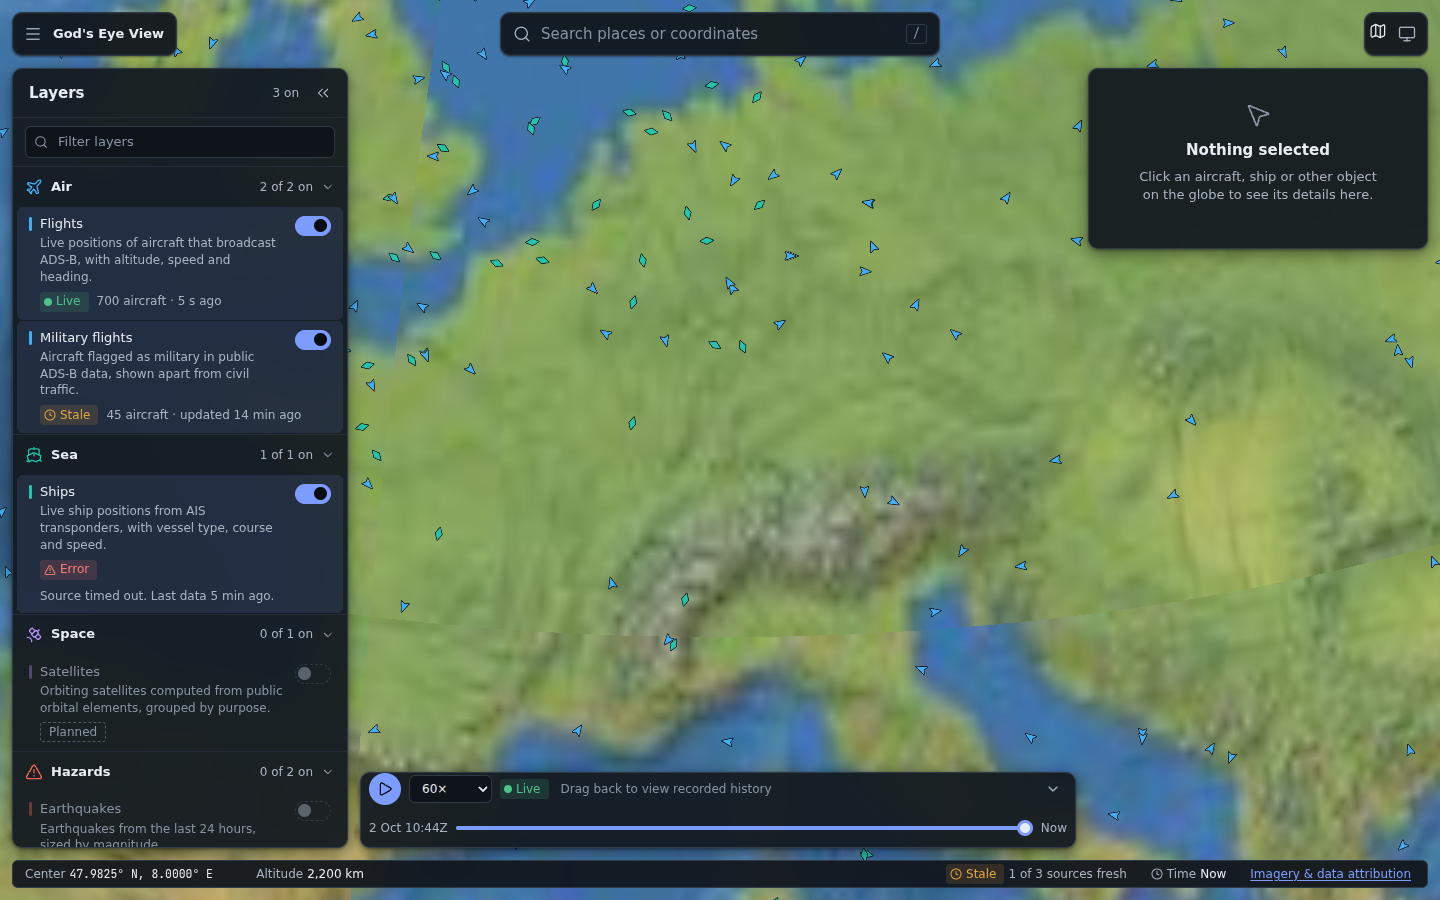
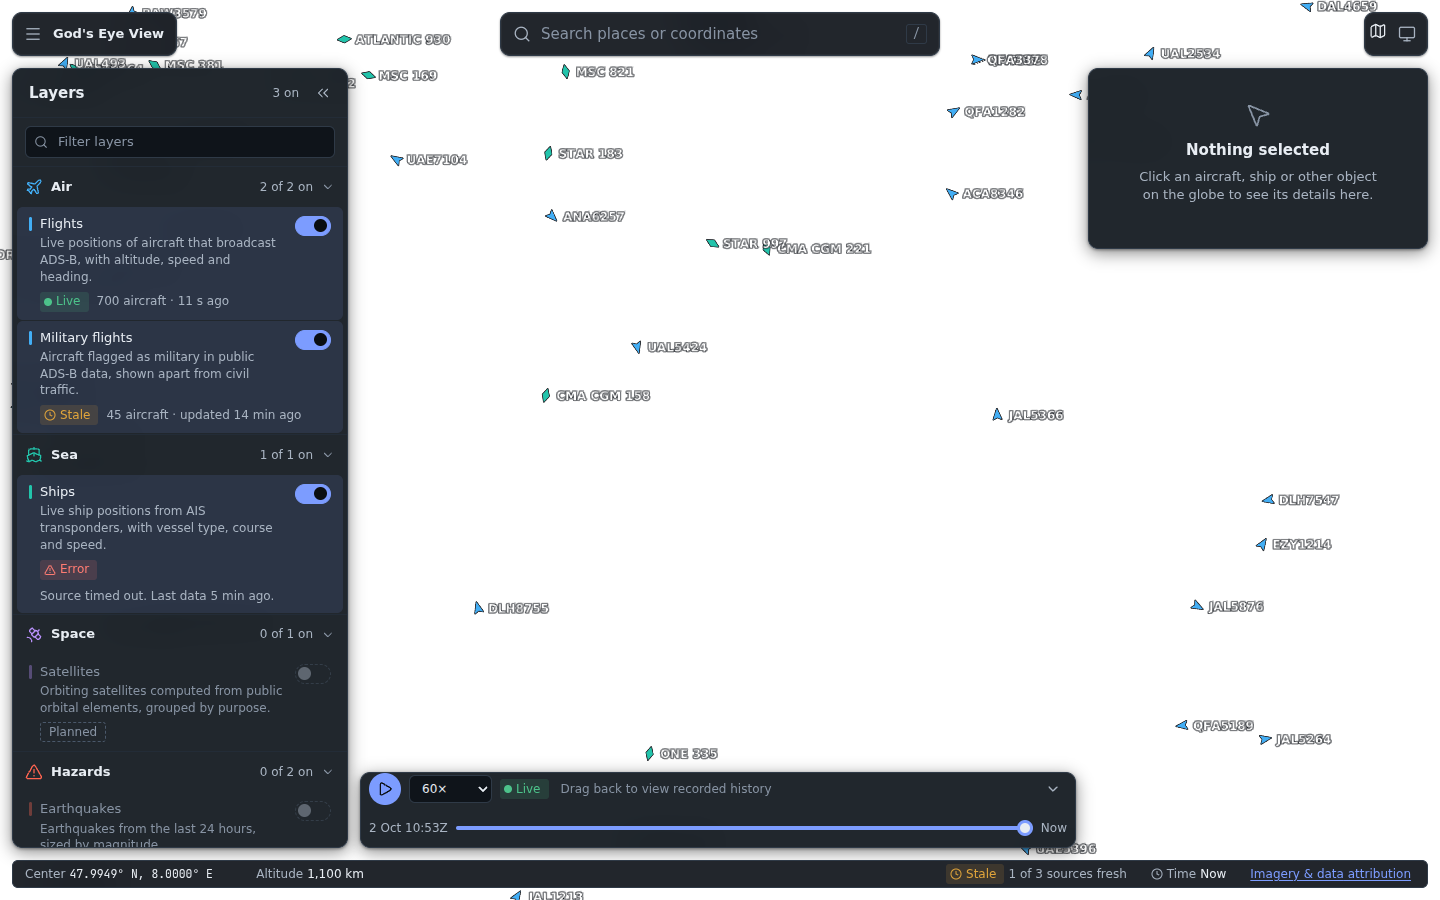
v2: web data layers, detail panel and time slider (work in progress)
Claude-Session: https://claude.ai/code/session_01Pqcu3rSvhkjfRPuF8urbmd

diff --git a/v2/web/src/api/fixtures.ts b/v2/web/src/api/fixtures.ts
@@ -124,12 +124,12 @@ function observe(layer: string, i: number, t: number, full: boolean): Observatio
     lat: pos.lat,
     heading: Math.round(pos.heading * 10) / 10,
     speed: Math.round(p.speed * 10) / 10,
-    props: { label: labelOf(layer, i) },
+    props: layer === 'vessels' ? { name: labelOf(layer, i) } : { callsign: labelOf(layer, i), military: layer === 'military-flights', onGround: false },
   };
   if (p.alt !== null) obs.alt = Math.round(p.alt);
   if (full) {
-    if (layer === 'vessels') obs.props = { ...obs.props, shipType: pickOf(SHIP_TYPES, i, 40), mmsi: obs.objectId };
-    else obs.props = { ...obs.props, type: pickOf(layer === 'flights' ? AIRCRAFT : MIL_TYPES, i, 41)[0], squawk: String(1000 + Math.floor(rnd(i, 42) * 6000)) };
+    if (layer === 'vessels') obs.props = { ...obs.props, category: pickOf(SHIP_TYPES, i, 40), navStatus: 'Under way using engine', destination: 'ROTTERDAM' };
+    else obs.props = { ...obs.props, typeCode: pickOf(layer === 'flights' ? AIRCRAFT : MIL_TYPES, i, 41)[0], squawk: String(1000 + Math.floor(rnd(i, 42) * 6000)) };
   }
   return obs;
 }
@@ -167,7 +167,7 @@ export function fixtureConfig(): ClientConfig {
 
 function detailFor(layer: string, i: number, t: number): ObjectDetail {
   const obs = observe(layer, i, t, true);
-  const label = String(obs.props.label);
+  const label = String(obs.props.callsign ?? obs.props.name);
   const kind = KINDS[layer]!;
   const rows = (r: DetailRow[]) => r;
   const lat = obs.lat;
@@ -193,8 +193,8 @@ function detailFor(layer: string, i: number, t: number): ObjectDetail {
   let title = label;
   let subtitle: string | null;
   if (layer === 'vessels') {
-    subtitle = `${String(obs.props.shipType)} · MMSI ${obs.objectId}`;
-    sections.push({ title: 'Vessel', rows: rows([{ label: 'Name', value: label }, { label: 'MMSI', value: obs.objectId, mono: true }, { label: 'Type', value: String(obs.props.shipType) }]) });
+    subtitle = `${String(obs.props.category)} · MMSI ${obs.objectId}`;
+    sections.push({ title: 'Vessel', rows: rows([{ label: 'Name', value: label }, { label: 'MMSI', value: obs.objectId, mono: true }, { label: 'Type', value: String(obs.props.category) }]) });
   } else {
     const [code, name] = pickOf(layer === 'flights' ? AIRCRAFT : MIL_TYPES, i, 41);
     const reg = layer === 'flights' ? `N${10000 + Math.floor(rnd(i, 43) * 89999)}` : null;
@@ -217,7 +217,7 @@ function detailFor(layer: string, i: number, t: number): ObjectDetail {
       { label: 'Position', value: layer === 'vessels' ? 'Reported by vessel' : 'Reported by aircraft', hint: 'not estimated' },
     ]),
   });
-  return { layer, objectId: obs.objectId, observation: obs, title, subtitle, sections, sources: [kind.source] };
+  return { layer, objectId: obs.objectId, observation: obs, title, subtitle, sections, sources: [kind.source], live: true };
 }
 
 const delay = (ms: number) => new Promise<void>((r) => setTimeout(r, ms));

diff --git a/v2/web/src/components/DetailPanel.svelte b/v2/web/src/components/DetailPanel.svelte
@@ -25,7 +25,9 @@
   const historical = $derived(timeState.at !== null);
   const seenAgo = $derived(detail ? Math.max(0, (historical ? timeState.at! : clock.now) - detail.observation.t) : 0);
   const freshness = $derived(feedStore.byLayer[selection.ref?.layer ?? '']?.freshnessMs ?? 60_000);
-  const stale = $derived(!historical && seenAgo > freshness);
+  // The server says whether the object is in the live picture; without that flag fall back to its age.
+  const notInFeed = $derived(selection.phase === 'gone' || (!historical && detail?.live === false));
+  const stale = $derived(!historical && detail?.live === undefined && seenAgo > freshness);
 
   const text = (v: PropValue): string => (v === null || v === '' ? '—' : typeof v === 'boolean' ? (v ? 'Yes' : 'No') : typeof v === 'number' ? v.toLocaleString('en-US') : v);
 
@@ -95,12 +97,12 @@
       </button>
     </div>
     <div class="fresh">
-      {#if selection.phase === 'gone'}
-        <StatusChip tone="stale"><Clock size={12} strokeWidth={2} aria-hidden="true" />Not in feed</StatusChip>
+      {#if notInFeed}
+        <StatusChip tone="stale"><Clock size={12} strokeWidth={2} aria-hidden="true" />{historical ? 'Not recorded' : 'Not in feed'}</StatusChip>
         <span class="meta num">Last seen {formatAge(clock.now - detail.observation.t)}</span>
       {:else if historical}
         <StatusChip tone="history"><History size={12} strokeWidth={2} aria-hidden="true" />Recorded</StatusChip>
-        <span class="meta num">Last seen {formatDuration(seenAgo)} before</span>
+        <span class="meta num">Last seen {formatDuration(seenAgo)} before this time</span>
       {:else if stale}
         <StatusChip tone="stale"><Clock size={12} strokeWidth={2} aria-hidden="true" />Stale</StatusChip>
         <span class="meta num">Last seen {formatAge(seenAgo)}</span>
@@ -109,8 +111,10 @@
         <span class="meta num">Last seen {formatAge(seenAgo)}</span>
       {/if}
     </div>
-    {#if selection.phase === 'gone'}
-      <p class="notice" role="status">This object is no longer in the feed. It may have landed, left coverage or stopped transmitting. The last known details are shown.</p>
+    {#if notInFeed}
+      <p class="notice" role="status">
+        {#if historical}This object wasn't recorded at the viewed time. The last details received are shown.{:else}This object is no longer in the feed. It may have landed, left coverage or stopped transmitting. The last known details are shown.{/if}
+      </p>
     {/if}
     {#if selection.track === 'empty'}<p class="notice" role="status">No recorded track for this object in the last 6 hours.</p>{/if}
     {#if selection.track === 'error'}<p class="notice err" role="alert">Couldn't load the track. Try again.</p>{/if}

diff --git a/v2/web/src/globe/layers/manager.ts b/v2/web/src/globe/layers/manager.ts
@@ -3,7 +3,7 @@ import type { ApiConfig, ApiFailure } from '../../api/index.ts';
 import { SnapshotHub } from '../../data/hub.ts';
 import type { FailedMessage, FromWorker, UpdateMessage } from '../../data/protocol.ts';
 import { bboxArea, bboxContains, bboxFromRectangle } from '../../lib/bbox.ts';
-import { cadenceMs, retryDelayMs } from '../../lib/cadence.ts';
+import { nextPollMs } from '../../lib/cadence.ts';
 import { debounce } from '../../lib/debounce.ts';
 import { CATEGORY_MAP_COLOR } from '../../lib/markerStyle.ts';
 import { thin } from '../../lib/trackStyle.ts';
@@ -14,7 +14,7 @@ import { TrackLine } from './track.ts';
 type Cesium = typeof import('cesium');
 
 /** Labels appear below this camera height. */
-export const LABEL_MAX_ALTITUDE_M = 1_200_000;
+export const LABEL_MAX_ALTITUDE_M = 800_000;
 const MOVE_DEBOUNCE_MS = 350;
 const MAX_TRACK_POINTS = 1500;
 
@@ -174,8 +174,7 @@ export function createDataLayers(
   function schedule(rt: Runtime): void {
     clearTimer(rt);
     if (timeAt !== null || document.hidden || destroyed) return; // history is fetched on demand, not polled
-    const base = cadenceMs(rt.state.feed?.freshnessMs);
-    rt.timer = setTimeout(() => request(rt), retryDelayMs(base, rt.failures));
+    rt.timer = setTimeout(() => request(rt), nextPollMs(rt.state.feed, rt.state.drawn, rt.failures));
   }
 
   function request(rt: Runtime): void {

diff --git a/v2/web/src/lib/cadence.test.ts b/v2/web/src/lib/cadence.test.ts
@@ -1,7 +1,7 @@
 import assert from 'node:assert/strict';
 import { test } from 'node:test';
 import type { FeedStatus } from '@gev/shared';
-import { cadenceMs, effectiveState, freshnessSummary, retryDelayMs } from './cadence.ts';
+import { cadenceMs, nextPollMs, effectiveState, freshnessSummary, retryDelayMs } from './cadence.ts';
 
 const feed = (over: Partial<FeedStatus> = {}): FeedStatus => ({
   layer: 'flights',
@@ -45,4 +45,12 @@ test('a live feed turns stale once its data outlives the window', () => {
 test('freshness summary counts running feeds only', () => {
   const feeds = [feed(), feed({ layer: 'm', lastSuccess: 900_000 }), feed({ layer: 'v', state: 'needs-key' }), feed({ layer: 'x', state: 'off' })];
   assert.deepEqual(freshnessSummary(feeds, 1_010_000), { fresh: 1, total: 2 });
+});
+
+test('an empty feed with no data yet is retried at the minimum interval', () => {
+  const empty = feed({ lastSuccess: null, state: 'stale', count: 0, freshnessMs: 180_000 });
+  assert.equal(nextPollMs(empty, 0, 0), 5_000);
+  assert.equal(nextPollMs(feed({ freshnessMs: 180_000 }), 10, 0), 60_000);
+  assert.equal(nextPollMs(empty, 0, 2), 60_000); // failures back off normally
+  assert.equal(nextPollMs(null, 0, 0), 15_000);
 });

diff --git a/v2/web/src/components/LayerRow.svelte b/v2/web/src/components/LayerRow.svelte
@@ -12,10 +12,11 @@
   const on = $derived(layerStore.enabled[layer.id] === true && isToggleable(layer));
   const sourceOff = $derived(feedStore.byLayer[layer.id]?.state === 'off');
   const planned = $derived(layer.status === 'planned');
+  const inactive = $derived(layer.status === 'planned' || layer.status === 'disabled');
   const uid = $props.id();
 </script>
 
-<div class="layer" class:is-on={on} class:is-planned={planned}>
+<div class="layer" class:is-on={on} class:is-planned={inactive}>
   <div class="layer-name" id="{uid}-name">{layer.name}</div>
   <button
     class="switch"
@@ -30,6 +31,8 @@
   <div class="layer-desc" id="{uid}-desc">{layer.description}</div>
   {#if planned}
     <div class="layer-status"><StatusChip tone="planned">Planned</StatusChip></div>
+  {:else if layer.status === 'disabled'}
+    <div class="layer-status"><StatusChip tone="planned">Turned off</StatusChip><span>Enable <span class="mono">{layer.id}</span> in FEEDS</span></div>
   {:else if layer.status === 'needs-key'}
     <div class="layer-status">
       <StatusChip tone="key"><KeyRound size={12} strokeWidth={2} aria-hidden="true" />Needs API key</StatusChip>

diff --git a/v2/web/src/globe/types.ts b/v2/web/src/globe/types.ts
@@ -2,6 +2,7 @@ import type { BBox, LonLat } from '@gev/shared';
 import type { ApiConfig } from '../api/index.ts';
 import type { PlaceKind } from '../lib/bbox.ts';
 import type { DataHooks, DataLayers } from './layers/manager.ts';
+import type { BaseMapId } from '../lib/basemaps.ts';
 import type { BaseMapOutcome, BaseMapRequest } from './basemap.ts';
 
 export interface FlyTarget {
@@ -36,6 +37,8 @@ export interface Globe {
   onCursor(cb: (pos: LonLat | null) => void): () => void;
   /** Swap the base map in place (same viewer and camera). Resolves once the new source is installed. */
   setBaseMap(req: BaseMapRequest): Promise<BaseMapOutcome>;
+  /** The base map actually on screen (differs from the request after a startup fallback). */
+  getBaseMapShown(): BaseMapId | null;
   /** Change the day of a dated base map (NASA GIBS); other sources ignore it. */
   setBaseMapDate(date: string): Promise<BaseMapOutcome>;
   /** Load the data-layer renderer (its own chunk, fetched when the first layer is switched on). */

diff --git a/v2/web/src/lib/cadence.ts b/v2/web/src/lib/cadence.ts
@@ -46,3 +46,13 @@ export function freshnessSummary(feeds: readonly FeedStatus[], now: number): Fre
   }
   return { fresh, total };
 }
+
+/**
+ * Delay until the next snapshot request. A feed that has nothing yet (the server
+ * starts polling an area only once it is asked for it) is retried quickly so the
+ * first data shows up in seconds rather than after a full cadence.
+ */
+export function nextPollMs(feed: FeedStatus | null, drawn: number, failures: number): number {
+  if (failures === 0 && feed && drawn === 0 && feed.lastSuccess === null && feed.state !== 'off' && feed.state !== 'needs-key') return MIN_POLL_MS;
+  return retryDelayMs(cadenceMs(feed?.freshnessMs), failures);
+}

diff --git a/v2/web/src/lib/layers.ts b/v2/web/src/lib/layers.ts
@@ -62,7 +62,7 @@ export function countOn(layers: readonly LayerDescriptor[], enabled: Readonly<Re
 
 /** Label for a row whose switch is unavailable, for assistive tech. */
 export function switchLabel(layer: LayerDescriptor): string {
-  return layer.status === 'planned' ? `${layer.name} (planned)` : layer.status === 'needs-key' ? `${layer.name} (needs API key)` : layer.name;
+  return layer.status === 'planned' ? `${layer.name} (planned)` : layer.status === 'needs-key' ? `${layer.name} (needs API key)` : layer.status === 'disabled' ? `${layer.name} (disabled)` : layer.name;
 }
 
 /** Layers the data renderer can draw today (everything else shows a placeholder when switched on). */

diff --git a/v2/web/src/components/LayerStatus.svelte b/v2/web/src/components/LayerStatus.svelte
@@ -51,7 +51,7 @@
     <div class="layer-status">
       {#if health === 'stale' || health === 'error'}
         <StatusChip tone={health}><Clock size={12} strokeWidth={2} aria-hidden="true" />{health === 'error' ? 'Error' : 'Stale'}</StatusChip>
-        <span class="num">{count} {noun} · updated {age}</span>
+        {#if age}<span class="num">{count} {noun} · updated {age}</span>{:else}<span class="msg">{feed.lastError ?? 'Waiting for the first data.'}</span>{/if}
       {:else}
         <StatusChip tone="live"><span class="dot"></span>Live</StatusChip>
         <span class="num">{count} {noun}{age ? ` · ${age}` : ''}</span>

diff --git a/v2/web/src/globe/index.ts b/v2/web/src/globe/index.ts
@@ -194,6 +194,7 @@ export async function createGlobe(options: GlobeOptions): Promise<Globe> {
     },
     // base map: delegated to the controller in basemap.ts
     setBaseMap: (req) => base.controller.apply(req),
+    getBaseMapShown: () => base.controller.shown,
     setBaseMapDate: (date) => base.controller.setDate(date),
     async loadData(hooks, api) {
       const { createDataLayers } = await import('./layers/manager.ts');

diff --git a/v2/web/src/globe/layers/pointLayer.ts b/v2/web/src/globe/layers/pointLayer.ts
@@ -52,7 +52,7 @@ export class PointLayer {
     this.scene = scene;
     this.layer = opts.layer;
     this.category = opts.category;
-    this.labelCap = opts.labelCap ?? 150;
+    this.labelCap = opts.labelCap ?? 60;
     const shape = CATEGORY_SHAPE[opts.category];
     this.rotates = rotatesWithHeading(shape);
     const { key, canvas } = markerCanvas(shape, CATEGORY_MAP_COLOR[opts.category]);

diff --git a/v2/web/src/lib/layers.test.ts b/v2/web/src/lib/layers.test.ts
@@ -53,3 +53,9 @@ test('layerNoun reads naturally', () => {
   assert.equal(layerNoun('vessels', 5), 'ships');
   assert.equal(layerNoun('x', 5), 'objects');
 });
+
+test('disabled layers cannot be toggled and say so', () => {
+  const l = mk('x', 'air', 'disabled', 'Flights');
+  assert.equal(isToggleable(l), false);
+  assert.equal(switchLabel(l), 'Flights (disabled)');
+});
